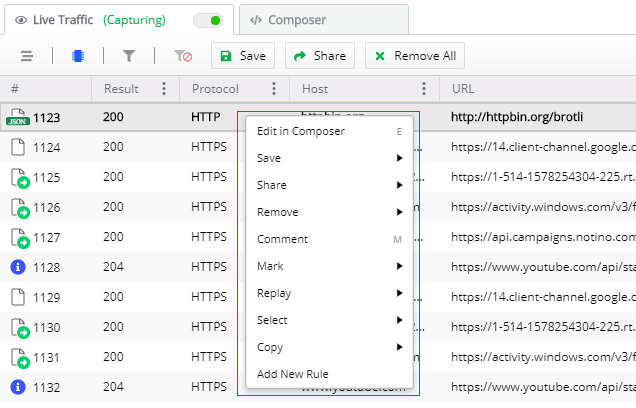
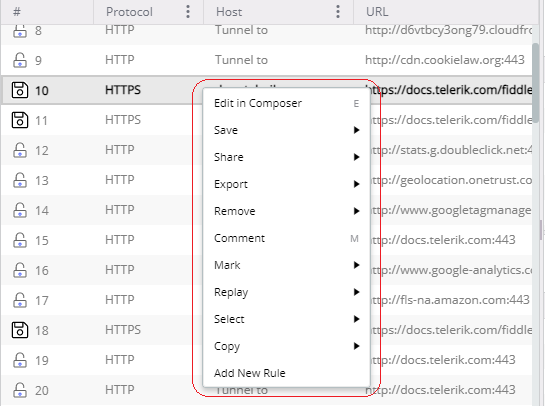
docs: update content and screenshots, improve UI

diff --git a/user-guide/live-traffic/live-traffic.md b/user-guide/live-traffic/live-traffic.md
@@ -7,13 +7,13 @@ position: 10
 previous_url: /user-guide/toolbar/decode-content, /user-guide/toolbar, /user-guide/live-traffic/web-sessions/web-sessions-toolbar
 ---
 
-## Live Traffic Tab
+# Live Traffic Tab
 
 The __Live Traffic__ tab is an essential feature of Fiddler Everywhere. It display a summary of each captured session (in the [**Live Traffic list**](#live-traffic-list)) and provides functionalities to work with these sessions (via the [**Live Traffic toolbar**](#live-traffic-toolbar), the [**Inspectors**]({%slug inspector-types%}) tabs, and the interconnected [**Auto Responder**]({%slug auto-responder-general%}). The section also enables sessions saving and sharing, editing issued requests, marking, commenting sessions, and applying Auto Responder rules.
 
 >tip A **Session** (also mentioned as a **web session**) represents a single transaction between a client and a server, sometimes known as for request/response pair. Each session appears as a single entry in the Live Traffic (refer to the images below). Each Session object has a **Request** and a **Response**, representing what the client sent to the server and what the server returned to the client. The Session object also maintains a set of Flags that record metadata about the session and a Timers object that stores timestamps logged during the Session processing.
 
-![Live Traffic toolbar and list](../../images/livetraffic/websessions/websessions-toolbar-list-full.png)
+![Live Traffic toolbar and list](../../images/livetraffic/websessions/websessions-list-all.png)
 
 ## Live Traffic Toolbar
 
@@ -133,7 +133,7 @@ The __Remove All__ button is removing __all__ currently captured traffic from th
 
 The Live Traffic list is an essential feature of Fiddler Everywhere - it displays a list of web sessions with a summary of each session that the Fiddler Everywhere client has captured.
 
-![Live Traffic](../../images/livetraffic/websessions/websessions-list-all.png)
+![Live Traffic](../../images/livetraffic/websessions/websessions-list-columns.png)
 
 Many operations begin by selecting one or more entries in the Live Traffic and then activating other features.
 - To select more than one Session, hold the __Ctrl__ (__Command__ on Mac) or __Shift__ keys while clicking on the desired rows.
@@ -246,6 +246,16 @@ All three options will initially display a save prompt and then a share prompt w
 >important Fiddler Everywhere has a quota limit for creating snapshots of sessions. Refer to the FIddler Everywhere plans page for details.
 
 >tip Alternatively, you can share captured traffic [via the __Share__ button from the toolbar]({%slug web-sessions-list%}#share)
+
+
+### Export
+
+The context menu option __Export__ allows you to export the captured trafcic in different known formats (like SAZ, HTTPArchive, WCAT, MeddlerScript, cURLScript and others).
+
+- __Selected sessions__ - Saves & shares all selected sessions.
+- __Unselected sessions__ - Saves & shares all unselected sessions.
+- __All Sessions__ - Saves and shares all captured traffic.
+
 
 ### Remove
 

diff --git a/get-started/collaboration.md b/get-started/collaboration.md
@@ -23,7 +23,7 @@ Save a session while following these steps:
  2. Use a preferred way to save a session. With Fiddler Everywhere, you can save captured traffic via:
     - [Live Traffic toolbar]({%slug web-sessions-list%}#live-traffic-toolbar) provides **Save**  option.
     - [Live Traffic list]({%slug web-sessions-list%}#live-traffic-list) provides **Save** option via the context menu.
-    - [File menu]({%slug file-menu%}) allows you to import/export different known formats (like HTTPArchive, Packet Capture, Folder Tree, and others) and to load and save Fiddler archives (**SAZ** format) that are holding captured sessions.
+    - [Context menu]({%slug web-sessions-list%}#live-traffic-context-menu) allows you to export the captured trafcic in different known formats (like SAZ, HTTPArchive, WCAT, MeddlerScript, cURLScript and others).
 
 ### Share Sessions
 
@@ -33,7 +33,7 @@ Share a session with a collaborator while following these steps:
     - [Live Traffic toolbar]({%slug web-sessions-list%}#live-traffic-toolbar) provides **Share** option. Press the **Share** button to prompt two consecutive windows for entering save and share related information.
     - [Live Traffic list]({%slug web-sessions-list%}#live-traffic-list) provides **Share** option via the context menu. Press the **Share** button to prompt two consecutive windows for entering save and share related information.
     - [Sessions list]({%slug saved-sessions-tab%}) provides **Share** functionality via dedicated button. The list contains previously saved sessions or sessions shared with the user. Press the **Share** button to prompt a window for entering share related information.
-    - [File menu]({%slug file-menu%}) allows you to import/export different known formats (like HTTPArchive, Packet Capture, Folder Tree, and others) and to load and save Fiddler archives (**SAZ** format) that are holding captured sessions.
+    - [Context menu]({%slug web-sessions-list%}#live-traffic-context-menu) allows you to export different known formats (like SAZ, HTTPArchive, WCAT, MeddlerScript, cURLScript and others).
 
 >important The Fiddler Everywhere free version has a quota for sharing sessions with collaborators. Check [the advantages provided by Fiddler Everywhere Pro]({%slug introduction%}#fiddler-everywhere-pro), which significantly extends the collaboration quotas.
 

diff --git a/user-guide/live-traffic/autoresponder.md b/user-guide/live-traffic/autoresponder.md
@@ -6,13 +6,13 @@ publish: true
 position: 30
 ---
 
-## Auto Responder Tab
+# Auto Responder Tab
 
-The __Auto Responder__ is one of the most powerful features of Fiddler Everywhere. It enables you to create __rules__ that will automatically trigger in response to requests. The functionality provides means to easily and quickly test changes to web code without updating the production server, to reproduce previously captured bugs (in SAZ files), or to run website demos while being entirely offline.
+The **Auto Responder** is one of the most powerful features of Fiddler Everywhere. It enables you to create __rules__ that will automatically trigger in response to requests. The functionality provides means to easily and quickly test changes to web code without updating the production server, to reproduce previously captured bugs (in SAZ files), or to run website demos while being entirely offline.
 
 ![AutoResponder button](../../images/livetraffic/autoresponder/autoresponder-main-all.png)
 
-The [Auto Responder Rules Editor]({%slug auto-responder-general%}#rules-editor)  allows you to create new rules and edit existing ones.
+The [**Auto Responder Rules Editor**]({%slug auto-responder-general%}#rules-editor)  allows you to create new rules and edit existing ones.
 
 The [Auto Responder Queue Viewer]({%slug auto-responder-general%}#queue-viewer) lists the currently used rules and provides additional control over them. The tab also exposes options to import/export rules files (__FARX__), to change the priority of the rules (of execution) and to entirely enable/disable the __Auto Responder__ or specific rules.
 

diff --git a/user-guide/sessions-list.md b/user-guide/sessions-list.md
@@ -6,7 +6,7 @@ publish: true
 position: 40
 ---
 
-## Sessions List
+# Sessions List
 
 The Fiddler Everywhere provides the option to save. modify, inspect and share previosly captured traffic. Use the __Live Traffic__ list's [__Save__]({%slug web-sessions-list%}#save) and [__Share__]({%slug web-sessions-list%}#share) options to save sessions to the __Sessions__ list.  
 
@@ -80,7 +80,7 @@ The option will load the selected session in the __Live Traffic__ list. Keyboard
 
 ### Export
 
-The option prompts the __Export__ windows. The session can be exported in SAZ format which can be encrypted (optional). Keyboard shortcut: __Cmd__ + __E__ (Mac), __Ctrl__ + __E__ (Windows).
+The option prompts the __Export__ windows. The session can be exported in various know formats (like SAZ, HTTPArchive, WCATScript, cURL Script, RAW, and others). Keyboard shortcut: __Cmd__ + __E__ (Mac), __Ctrl__ + __E__ (Windows).
 
 ### Rename
 

diff --git a/user-guide/live-traffic/inspector-types.md b/user-guide/live-traffic/inspector-types.md
@@ -6,9 +6,9 @@ publish: true
 position: 20
 ---
 
-## Inspector Types
+# Inspector Types
 
-Fiddler's Inspectors display the **request** and the **response** for the selected session in the **Live Traffic list**. The inspectors are located in the right panel with the Request inspectors above the Response inspectors.
+Fiddler Everywhere's inspectors display the **request** and the **response** for the selected session in the **Live Traffic list**. The inspectors are located in the right panel with the Request inspectors above the Response inspectors.
 
 Select a session (from the __Live Traffic__ list) to load its data into the Inspector's section. Request inspectors are located at the top, and Response inspectors are located at the bottom (on the right panel).
 

diff --git a/user-guide/composer.md b/user-guide/composer.md
@@ -6,7 +6,7 @@ publish: true
 position: 50
 ---
 
-## Composer
+# Composer
 
 The __Composer__ tab enables you to manually create, edit, send and test HTTP and HTTPS requests. You can make a new request from scratch or edit a request already captured by Fiddler Everywhere. To get started, open the **Composer** tab next to the [**Live Traffic**]({%slug web-sessions-list%}) tab. You can also open a new Composer tab by clicking on the **New Request** button in the [**Requests**]({%slug saved-requests-tab%}) tab (the button with the **+** sign). The Composer tab has the Request Composer and the Request Inspector.
 

diff --git a/user-guide/main-menu.md b/user-guide/main-menu.md
@@ -7,7 +7,7 @@ publish: true
 position: 10
 ---
 
-## Main Menu
+# Main Menu
 
 The main menu in Fiddler Everywhere is placed at the top and consists of several areas that provide multiple functionalities, settings, and information. To the left, you could find the [**View**](#view), and [**Help**](#help) submenus plus [a **Plan** information options](#plan-information). To the right, you will find [**Links**](#links), [**Notifications**](#notifications), [**Settings**](#settings), and current user [**Sign Out** option](#sign-out).
 

diff --git a/user-guide/requests-list.md b/user-guide/requests-list.md
@@ -7,7 +7,7 @@ position: 60
 ---
 
 
-## Requests List
+# Requests List
 
 The **Requests** list in Fiddler Everywhere provides the option to save, modify, execute, and share previously composed requests. The [Composer](https://docs.telerik.com/fiddler-everywhere/user-guide/composer) tab enables you to build and send HTTP and HTTPS request manually. When you **save** a request using the Composer, the request is added to a **collection** in the **Requests** list. 
 

diff --git a/user-guide/resources.md b/user-guide/resources.md
@@ -6,7 +6,7 @@ publish: true
 position: 60
 ---
 
-## Welcome Page
+# Welcome Page
 
 The welcome page loads on the startup of the Fiddler Everywhere application. The page contains useful information about the state of Fiddler Everywhere, several links to the official documentation, blogs, video channel, webinars, and interactive in-app tutorials.
 
